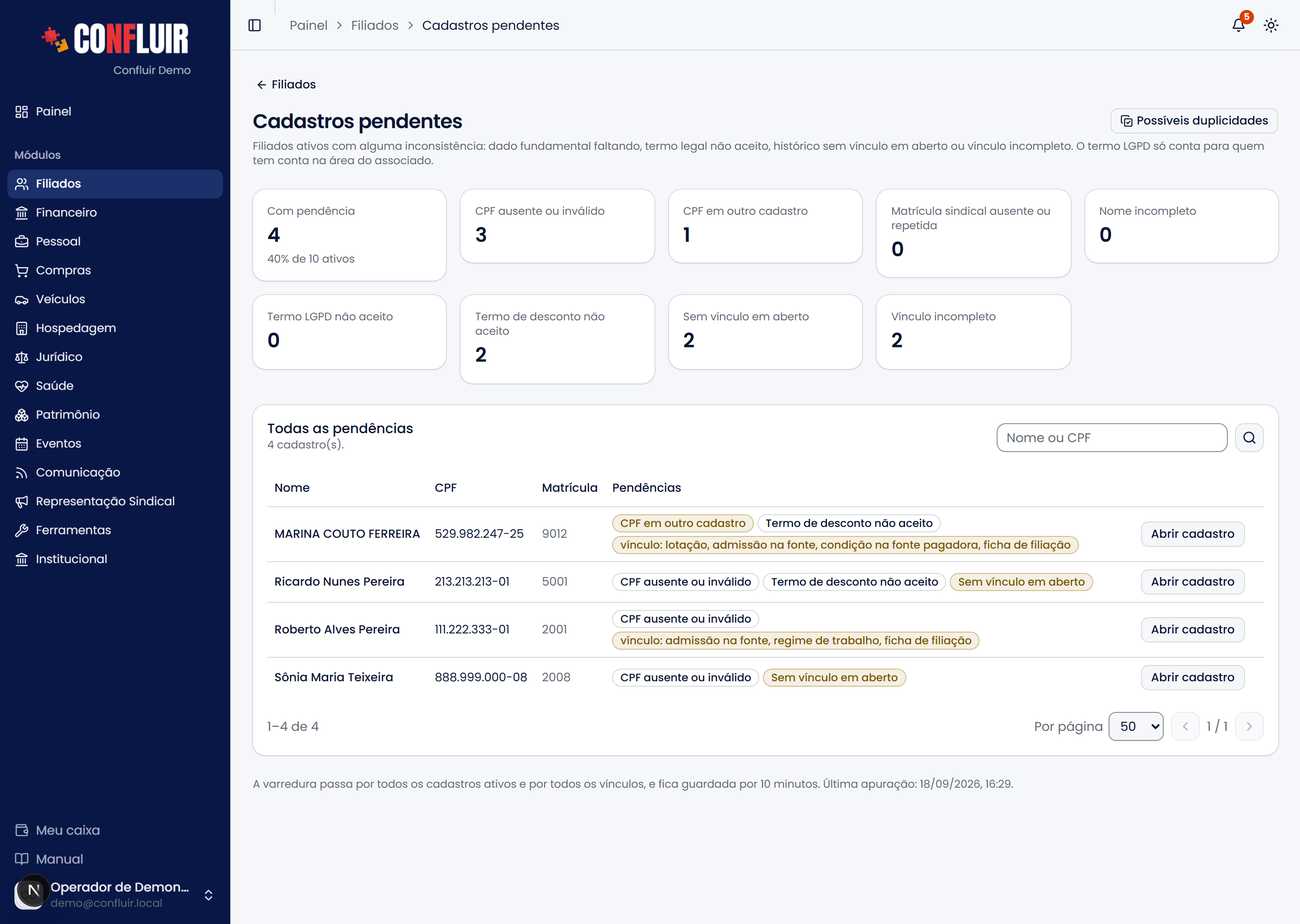
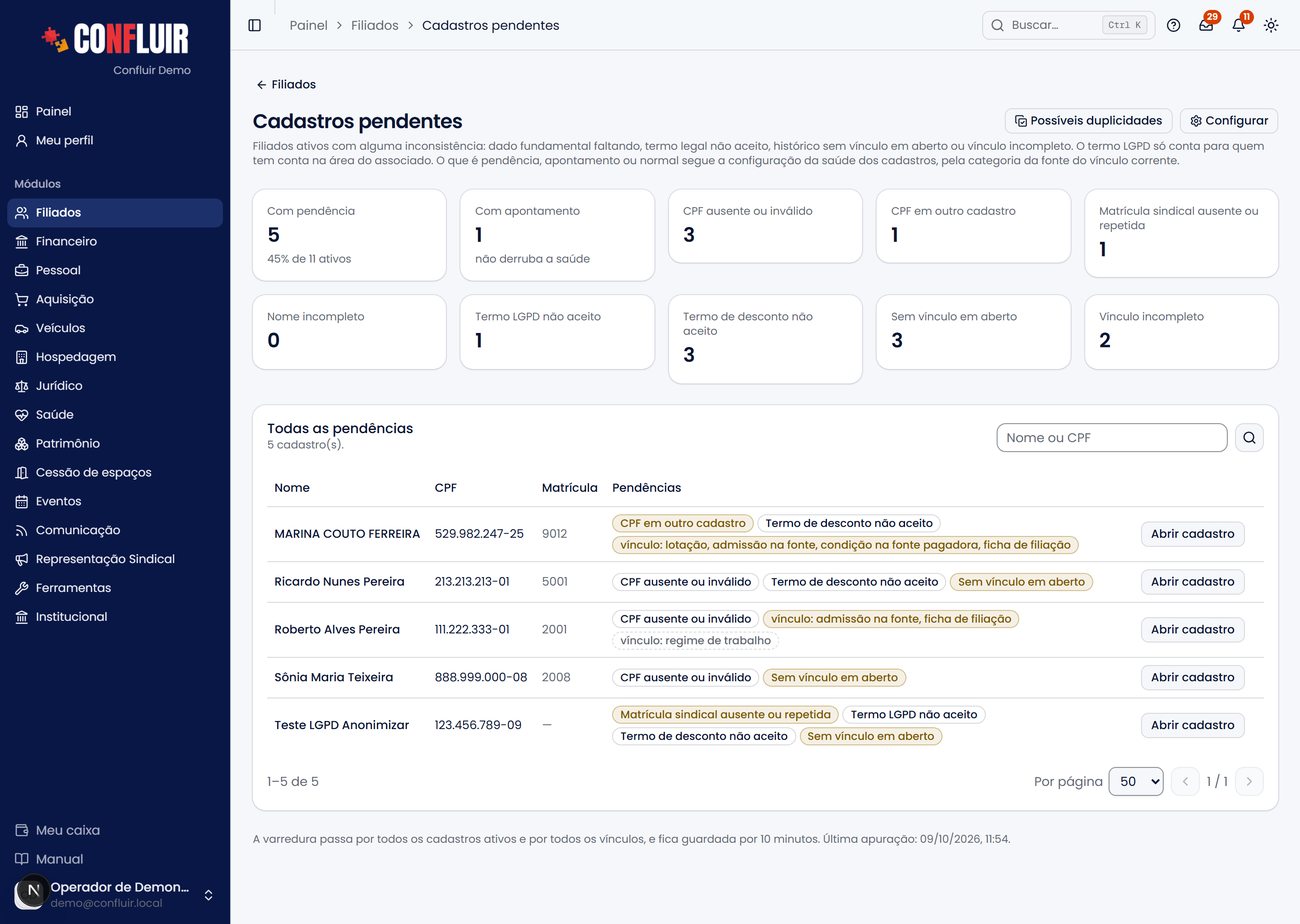
Manual: prints da saúde configurável e das categorias de fonte
- Novos: filiados/saude-config, representacao/categorias e fonte-categoria
- Refeitos: filiados/lista (engrenagem no cartão) e cadastros-pendentes
  (Configurar + Com apontamento)
- manual-prints.mjs: rodada 17; a de 08/10 (que devolve remessa) comentada

diff --git a/src/lib/ajuda/base-conhecimento.ts b/src/lib/ajuda/base-conhecimento.ts
@@ -117,7 +117,7 @@ export const BASE_AJUDA: ArtigoBase[] = [
   {
     "area": "filiados",
     "slug": "cadastros-pendentes",
-    "texto": "Um filiado ativo deve ter o cadastro e o histórico de filiação completos:\nCPF válido, nome completo, os termos legais aceitos, um vínculo em aberto e,\nnesse vínculo, os dados fundamentais e a ficha assinada. Cadastros\npendentes reúne quem falha em qualquer um desses pontos — antes, só a falta\nda ficha era visível.\n\n Filiados \n\n Saúde dos cadastros\n\nNa tela inicial de Filiados, o cartão Saúde dos cadastros mostra, num\nmedidor, quantos por cento dos cadastros ativos estão completos — sem\nnenhuma das pendências abaixo. A cor e a etiqueta dizem a faixa:\n\n| Completos | Faixa | Cor |\n| --- | --- | --- |\n| até 50% | Crítico | vermelho |\n| acima de 50% até 70% | Regular | amarelo |\n| acima de 70% até 85% | Confiável | verde |\n| acima de 85% | Excelente | azul |\n\nO link Cadastros pendentes, no canto do cartão, abre a lista para resolver.\nO cartão é apurado junto com a lista (a mesma varredura), então os números\nbatem.\n\n O que conta como pendência\n\nFiliados → Cadastros pendentes mostra os filiados ativos (condição do\ncadastro) com pelo menos uma destas inconsistências:\n\n- CPF ausente ou inválido — o CPF é a identidade do filiado no sistema.\n- CPF em outro cadastro — o mesmo CPF está em mais de um cadastro. Resolva\n em Possíveis duplicidades.\n- Matrícula sindical ausente ou repetida — a matrícula é da entidade, única\n por pessoa. Corrija em Editar cadastro → CPF e matrícula sindical, ou\n mescle se for a mesma pessoa.\n- Nome incompleto — sem nome, ou só um nome.\n- Termo LGPD não aceito — o cadastro não aponta para a versão em vigor.\n Só conta para quem tem conta na área do associado, que é onde o filiado\n aceita o termo; sem conta, a falta do aceite não é pendência.\n- Termo de desconto não aceito — idem, para a autorização de desconto.\n- Sem vínculo em aberto — não há vínculo de filiação sem data de saída.\n- Vínculo incompleto — no vínculo em aberto falta algo obrigatório: fonte\n pagadora, matrícula, cargo, lotação, admissão na fonte, data de filiação,\n condição na fonte, regime de trabalho (só para trabalhador da ativa) ou a\n ficha de filiação. Saída na fonte, carta de desligamento e desfiliação\n não contam: só existem quando o vínculo termina.\n\nEssa é a regra padrão. Quem tem a permissão de gestão de filiação pode\nmudá-la — veja Configurar a saúde dos cadastros, mais abaixo.\n\nOs cartões do topo dão o total de cada pendência e filtram a lista ao clicar.\nCada linha mostra as etiquetas do que falta; na de vínculo incompleto, o texto\nlista os campos. O cartão Com apontamento filtra quem tem apontamentos,\nque aparecem como etiquetas tracejadas.\n\n Configurar a saúde dos cadastros\n\nNo cartão Saúde dos cadastros (tela de Filiados), o ícone de engrenagem\nabre a configuração — também há o botão Configurar em Cadastros\npendentes. Há uma aba por categoria de fonte pagadora — Empregador, Fundo\nde pensão e as que a entidade criou em Categorias de fonte\n— e, em cada uma, cada informação recebe um de três níveis:\n\n| Nível | O que acontece quando a informação falta |\n| --- | --- |\n| Pendência | Conta contra a saúde e põe o cadastro na lista de pendentes. |\n| Apontamento | Aparece na lista como aviso, sem derrubar a saúde. |\n| Normal | Não é verificada. |\n\nVale a categoria da fonte do vínculo em aberto do filiado; sem vínculo em\naberto (ou com vínculo sem fonte), vale a de Empregador. O padrão é tudo como\npendência, exceto cargo e lotação em fundo de pensão, que ficam como normal;\numa categoria criada parte do padrão da categoria cujas regras ela segue.\nRestaurar padrão volta a aba aberta para esse padrão. Ao salvar, a saúde\ne a lista são recalculadas na hora.\n\n \n\nO que conta como ativo aqui: \n A condição sindical do cadastro — o campo que a secretaria\n mantém quando alguém se filia ou se desfilia. Não é o histórico de vínculos:\n ele diz onde a pessoa trabalha, não se ela é filiada.\n \n\n Como resolver\n\n \n \nAbra o cadastro ou o vínculo: \n Quando a única pendência é o vínculo, o botão abre direto a edição dele;\n nos demais casos abre o cadastro, onde o histórico de filiação marca com\n um triângulo as linhas incompletas e a edição do vínculo lista o que falta.\n \n \nSem vínculo em aberto: \n Registre o vínculo em Histórico de filiação , com fonte\n pagadora, matrícula e data de filiação. Parte desses casos é herança do\n sistema antigo, que trouxe o histórico pela metade.\n \n \nTermos legais: \n O aceite é registrado na ficha pública ou pela secretaria. Em 10/09/2026 o\n termo de desconto em vigor foi registrado como aceito para todos os ativos,\n porque a ficha assinada já o menciona. O de LGPD fica pendente só para\n quem tem conta na área do associado e ainda não o aceitou lá.\n \n \n\nIsto não afeta os direitos da pessoa: \n Pendência de cadastro não tira nada de ninguém. Quando não há vínculo datado,\n a carência conta pelo histórico de contribuição — a\n competência mais antiga em que a pessoa aparece numa remessa.\n \n\nA varredura passa por todos os cadastros ativos e por todos os vínculos e fica\nguardada por 10 minutos; a hora da última apuração aparece no rodapé da tela."
+    "texto": "Um filiado ativo deve ter o cadastro e o histórico de filiação completos:\nCPF válido, nome completo, os termos legais aceitos, um vínculo em aberto e,\nnesse vínculo, os dados fundamentais e a ficha assinada. Cadastros\npendentes reúne quem falha em qualquer um desses pontos — antes, só a falta\nda ficha era visível.\n\n Filiados \n\n Saúde dos cadastros\n\nNa tela inicial de Filiados, o cartão Saúde dos cadastros mostra, num\nmedidor, quantos por cento dos cadastros ativos estão completos — sem\nnenhuma das pendências abaixo. A cor e a etiqueta dizem a faixa:\n\n| Completos | Faixa | Cor |\n| --- | --- | --- |\n| até 50% | Crítico | vermelho |\n| acima de 50% até 70% | Regular | amarelo |\n| acima de 70% até 85% | Confiável | verde |\n| acima de 85% | Excelente | azul |\n\nO link Cadastros pendentes, no canto do cartão, abre a lista para resolver.\nO cartão é apurado junto com a lista (a mesma varredura), então os números\nbatem.\n\n O que conta como pendência\n\nFiliados → Cadastros pendentes mostra os filiados ativos (condição do\ncadastro) com pelo menos uma destas inconsistências:\n\n- CPF ausente ou inválido — o CPF é a identidade do filiado no sistema.\n- CPF em outro cadastro — o mesmo CPF está em mais de um cadastro. Resolva\n em Possíveis duplicidades.\n- Matrícula sindical ausente ou repetida — a matrícula é da entidade, única\n por pessoa. Corrija em Editar cadastro → CPF e matrícula sindical, ou\n mescle se for a mesma pessoa.\n- Nome incompleto — sem nome, ou só um nome.\n- Termo LGPD não aceito — o cadastro não aponta para a versão em vigor.\n Só conta para quem tem conta na área do associado, que é onde o filiado\n aceita o termo; sem conta, a falta do aceite não é pendência.\n- Termo de desconto não aceito — idem, para a autorização de desconto.\n- Sem vínculo em aberto — não há vínculo de filiação sem data de saída.\n- Vínculo incompleto — no vínculo em aberto falta algo obrigatório: fonte\n pagadora, matrícula, cargo, lotação, admissão na fonte, data de filiação,\n condição na fonte, regime de trabalho (só para trabalhador da ativa) ou a\n ficha de filiação. Saída na fonte, carta de desligamento e desfiliação\n não contam: só existem quando o vínculo termina.\n\nEssa é a regra padrão. Quem tem a permissão de gestão de filiação pode\nmudá-la — veja Configurar a saúde dos cadastros, mais abaixo.\n\nOs cartões do topo dão o total de cada pendência e filtram a lista ao clicar.\nCada linha mostra as etiquetas do que falta; na de vínculo incompleto, o texto\nlista os campos. O cartão Com apontamento filtra quem tem apontamentos,\nque aparecem como etiquetas tracejadas.\n\n \n\n Configurar a saúde dos cadastros\n\nNo cartão Saúde dos cadastros (tela de Filiados), o ícone de engrenagem\nabre a configuração — também há o botão Configurar em Cadastros\npendentes. Há uma aba por categoria de fonte pagadora — Empregador, Fundo\nde pensão e as que a entidade criou em Categorias de fonte\n— e, em cada uma, cada informação recebe um de três níveis:\n\n| Nível | O que acontece quando a informação falta |\n| --- | --- |\n| Pendência | Conta contra a saúde e põe o cadastro na lista de pendentes. |\n| Apontamento | Aparece na lista como aviso, sem derrubar a saúde. |\n| Normal | Não é verificada. |\n\nVale a categoria da fonte do vínculo em aberto do filiado; sem vínculo em\naberto (ou com vínculo sem fonte), vale a de Empregador. O padrão é tudo como\npendência, exceto cargo e lotação em fundo de pensão, que ficam como normal;\numa categoria criada parte do padrão da categoria cujas regras ela segue.\nRestaurar padrão volta a aba aberta para esse padrão. Ao salvar, a saúde\ne a lista são recalculadas na hora.\n\n \n\nO que conta como ativo aqui: \n A condição sindical do cadastro — o campo que a secretaria\n mantém quando alguém se filia ou se desfilia. Não é o histórico de vínculos:\n ele diz onde a pessoa trabalha, não se ela é filiada.\n \n\n Como resolver\n\n \n \nAbra o cadastro ou o vínculo: \n Quando a única pendência é o vínculo, o botão abre direto a edição dele;\n nos demais casos abre o cadastro, onde o histórico de filiação marca com\n um triângulo as linhas incompletas e a edição do vínculo lista o que falta.\n \n \nSem vínculo em aberto: \n Registre o vínculo em Histórico de filiação , com fonte\n pagadora, matrícula e data de filiação. Parte desses casos é herança do\n sistema antigo, que trouxe o histórico pela metade.\n \n \nTermos legais: \n O aceite é registrado na ficha pública ou pela secretaria. Em 10/09/2026 o\n termo de desconto em vigor foi registrado como aceito para todos os ativos,\n porque a ficha assinada já o menciona. O de LGPD fica pendente só para\n quem tem conta na área do associado e ainda não o aceitou lá.\n \n \n\nIsto não afeta os direitos da pessoa: \n Pendência de cadastro não tira nada de ninguém. Quando não há vínculo datado,\n a carência conta pelo histórico de contribuição — a\n competência mais antiga em que a pessoa aparece numa remessa.\n \n\nA varredura passa por todos os cadastros ativos e por todos os vínculos e fica\nguardada por 10 minutos; a hora da última apuração aparece no rodapé da tela."
   },
   {
     "area": "filiados",
@@ -147,7 +147,7 @@ export const BASE_AJUDA: ArtigoBase[] = [
   {
     "area": "filiados",
     "slug": "index",
-    "texto": "O módulo Filiados é a base de pessoas do sindicato: o cadastro dos\nassociados, o perfil completo de cada um, o acompanhamento dos processos de\nfiliação e desfiliação, o recebimento das contribuições, o prontuário e os\ntermos legais que o associado aceita.\n\n Filiados \n\n As áreas do módulo\n\n \n \nFiliados (lista): \n A lista de associados, com busca por nome, CPF ou matrícula, filtros por\n situação e exportação em CSV. Cada linha abre o\n perfil completo.\n \n \nNova filiação: \n Cadastro de um filiado pela secretaria, com dois modos no topo da tela:\n Inclusão individual (formulário) e Inclusão em massa (planilha —\n ver Importar). A matrícula sindical é\n a próxima livre, automática; só preencha para manter um número já usado no\n papel. CPF ou matrícula que já estão em outro cadastro são recusados, e\n mesmo nome com a mesma data de nascimento pede confirmação — é assim que se\n evita cadastrar de novo quem volta a se filiar. O formulário pede também\n a forma de recebimento e o primeiro vínculo com a fonte pagadora —\n obrigatório quando a regra da entidade diz que a filiação depende de fonte\n (Institucional → Organização → Regras de filiação).\n Gestão da filiação \n \n \nAcompanhamento: \n Onde cada processo de filiação/desfiliação está parado, com o gráfico de\n etapas e a fila por etapa. Ver\n Acompanhamento.\n Gestão da filiação \n \n \nSolicitações de filiação: \n A fila de fichas recebidas pelo site (fluxo público /filiar) — é a\n aprovação delas que cria a filiação.\n \n \nReceitas: \n As remessas de recebimento das contribuições, por fonte pagadora. Ver\n Receitas.\n \n \nProntuários: \n A linha do tempo de cada associado — atendimentos, homologações, mudanças de\n etapa e apontamentos manuais.\n \n \nConfigurações de filiação: \n Carência por direito, regra de inadimplência e os termos legais (LGPD e\n desconto, versionados). Ver\n Configurações de filiação.\n \n \n\n \n\n A situação (condição) da filiação\n\nA condição é o dado central do módulo: ela controla o acesso do associado ao\nportal e o direito a voto em assembleias, e define em que etapa do processo o\ncadastro está. Aparece como um selo colorido na lista e no topo do perfil. Os\nvalores:\n\n- Ativo / Inativo — filiado em dia / desfiliado (objetivos finais).\n- Aguarda ficha assinada, Filiação não informada à fonte, Filiação\n aguarda fonte — filiação em andamento.\n- Desfiliação não informada à fonte, Desfiliação aguarda fonte —\n desfiliação em andamento.\n- Falecido, Excluído(a) do quadro associativo — situações especiais.\n\nOs cartões do topo são atalhos: \n Os indicadores \"Filiação em andamento\" e \"Desfiliação em andamento\" abrem a\n lista já filtrada por aquelas condições — o mesmo destino da área de\n Acompanhamento.\n \n\n Ver a área do filiado\n\nNo perfil, o botão Visualizar área abre o portal como o associado o vê —\nem somente leitura. É útil para dar suporte (\"veja o que aparece para\nvocê\") sem risco de alterar nada: as ações de escrita usam a sessão real, então\na gestão apenas visualiza.\n\nBusca sem acento: \n A busca por nome ignora acentos e maiúsculas — procurar por \"jose\" encontra\n \"José\". CPF e matrícula podem ser digitados com ou sem pontuação. Na busca\n rápida do painel, quem tem a matrícula sindical ou o CPF exatamente\n igual ao termo vem primeiro — \"850\" traz a matrícula 850 antes de\n 8504, 8505 e dos CPFs que começam com 850.\n \n\n Os gráficos do painel\n\nAbaixo dos cartões e dos indicadores, o painel mostra o quadro de filiados\nativos em gráficos, todos na paleta da entidade:\n\n- Divisão por sexo — duas rosquinhas: preenchimento do campo sexo e, entre\n os que têm sexo informado, a divisão entre masculino, feminino e outro. Cada\n fatia da legenda abre a lista filtrada.\n- Filiados por fonte pagadora — as dez maiores fontes.\n- Regime de trabalho e Condição na fonte pagadora — sobre os vínculos\n em aberto dos filiados ativos.\n- Filiações × desfiliações — quantos vínculos foram filiados e desfiliados\n no período (nesta semana, neste mês ou neste ano), com o saldo. Conta pela\n data de filiação e de desfiliação gravada no vínculo, o que deixa de fora um\n acerto lançado com data antiga.\n- Registros por condição de filiação — todos os cadastros, por condição.\n\nOs aniversariantes de hoje ficam no fim da página, depois dos gráficos.\n\n Erros comuns\n\n- \"O associado não consegue entrar no portal / votar.\" Confira a\n condição — só quem está Ativo tem acesso pleno. Veja em que etapa está pelo\n Acompanhamento.\n- \"Achei a mesma pessoa duas vezes na lista.\" Um mesmo CPF pode ter mais de\n um registro (troca de empregador, por exemplo). O\n perfil agrega e mostra os \"outros registros\n deste CPF\".\n- \"A exportação veio incompleta.\" O CSV respeita os filtros aplicados —\n limpe os filtros para exportar a base inteira.\n\n Carência, inadimplência e documentos\n\nTrês áreas que nasceram do dia a dia da secretaria:\n\n- Configurações de filiação — a carência de cada direito, a regra de\n inadimplência e os termos legais aceitos na ficha. Ver\n Configurações de filiação.\n- Inadimplentes — o relatório de quem está na condição. Ele aponta; quem\n decide é uma pessoa.\n- Cadastros pendentes — filiados ativos com dado fundamental, termo legal\n ou histórico de vínculos incompleto, com o link direto para resolver. Fica no\n cartão Saúde dos cadastros da tela inicial, que mede a porcentagem de\n cadastros completos. Quando há cadastros que parecem da mesma pessoa, o\n cartão avisa quantas possíveis duplicidades há para conferir. Ver\n Cadastros pendentes e\n Possíveis duplicidades.\n- Relatórios — em carência, plenos, inadimplentes e o personalizado, com\n filtros e colunas à escolha, exportação e impressão. Ver\n Relatórios."
+    "texto": "O módulo Filiados é a base de pessoas do sindicato: o cadastro dos\nassociados, o perfil completo de cada um, o acompanhamento dos processos de\nfiliação e desfiliação, o recebimento das contribuições, o prontuário e os\ntermos legais que o associado aceita.\n\n Filiados \n\n As áreas do módulo\n\n \n \nFiliados (lista): \n A lista de associados, com busca por nome, CPF ou matrícula, filtros por\n situação e exportação em CSV. Cada linha abre o\n perfil completo.\n \n \nNova filiação: \n Cadastro de um filiado pela secretaria, com dois modos no topo da tela:\n Inclusão individual (formulário) e Inclusão em massa (planilha —\n ver Importar). A matrícula sindical é\n a próxima livre, automática; só preencha para manter um número já usado no\n papel. CPF ou matrícula que já estão em outro cadastro são recusados, e\n mesmo nome com a mesma data de nascimento pede confirmação — é assim que se\n evita cadastrar de novo quem volta a se filiar. O formulário pede também\n a forma de recebimento e o primeiro vínculo com a fonte pagadora —\n obrigatório quando a regra da entidade diz que a filiação depende de fonte\n (Institucional → Organização → Regras de filiação).\n Gestão da filiação \n \n \nAcompanhamento: \n Onde cada processo de filiação/desfiliação está parado, com o gráfico de\n etapas e a fila por etapa. Ver\n Acompanhamento.\n Gestão da filiação \n \n \nSolicitações de filiação: \n A fila de fichas recebidas pelo site (fluxo público /filiar) — é a\n aprovação delas que cria a filiação.\n \n \nReceitas: \n As remessas de recebimento das contribuições, por fonte pagadora. Ver\n Receitas.\n \n \nProntuários: \n A linha do tempo de cada associado — atendimentos, homologações, mudanças de\n etapa e apontamentos manuais.\n \n \nConfigurações de filiação: \n Carência por direito, regra de inadimplência e os termos legais (LGPD e\n desconto, versionados). Ver\n Configurações de filiação.\n \n \n\n \n\n A situação (condição) da filiação\n\nA condição é o dado central do módulo: ela controla o acesso do associado ao\nportal e o direito a voto em assembleias, e define em que etapa do processo o\ncadastro está. Aparece como um selo colorido na lista e no topo do perfil. Os\nvalores:\n\n- Ativo / Inativo — filiado em dia / desfiliado (objetivos finais).\n- Aguarda ficha assinada, Filiação não informada à fonte, Filiação\n aguarda fonte — filiação em andamento.\n- Desfiliação não informada à fonte, Desfiliação aguarda fonte —\n desfiliação em andamento.\n- Falecido, Excluído(a) do quadro associativo — situações especiais.\n\nOs cartões do topo são atalhos: \n Os indicadores \"Filiação em andamento\" e \"Desfiliação em andamento\" abrem a\n lista já filtrada por aquelas condições — o mesmo destino da área de\n Acompanhamento.\n \n\n Ver a área do filiado\n\nNo perfil, o botão Visualizar área abre o portal como o associado o vê —\nem somente leitura. É útil para dar suporte (\"veja o que aparece para\nvocê\") sem risco de alterar nada: as ações de escrita usam a sessão real, então\na gestão apenas visualiza.\n\nBusca sem acento: \n A busca por nome ignora acentos e maiúsculas — procurar por \"jose\" encontra\n \"José\". CPF e matrícula podem ser digitados com ou sem pontuação. Na busca\n rápida do painel, quem tem a matrícula sindical ou o CPF exatamente\n igual ao termo vem primeiro — \"850\" traz a matrícula 850 antes de\n 8504, 8505 e dos CPFs que começam com 850.\n \n\n Os gráficos do painel\n\nAbaixo dos cartões e dos indicadores, o painel mostra o quadro de filiados\nativos em gráficos, todos na paleta da entidade:\n\n- Divisão por sexo — duas rosquinhas: preenchimento do campo sexo e, entre\n os que têm sexo informado, a divisão entre masculino, feminino e outro. Cada\n fatia da legenda abre a lista filtrada.\n- Filiados por fonte pagadora — as dez maiores fontes.\n- Regime de trabalho e Condição na fonte pagadora — sobre os vínculos\n em aberto dos filiados ativos.\n- Filiações × desfiliações — quantos vínculos foram filiados e desfiliados\n no período (nesta semana, neste mês ou neste ano), com o saldo. Conta pela\n data de filiação e de desfiliação gravada no vínculo, o que deixa de fora um\n acerto lançado com data antiga.\n- Registros por condição de filiação — todos os cadastros, por condição.\n\nOs aniversariantes de hoje ficam no fim da página, depois dos gráficos.\n\n Erros comuns\n\n- \"O associado não consegue entrar no portal / votar.\" Confira a\n condição — só quem está Ativo tem acesso pleno. Veja em que etapa está pelo\n Acompanhamento.\n- \"Achei a mesma pessoa duas vezes na lista.\" Um mesmo CPF pode ter mais de\n um registro (troca de empregador, por exemplo). O\n perfil agrega e mostra os \"outros registros\n deste CPF\".\n- \"A exportação veio incompleta.\" O CSV respeita os filtros aplicados —\n limpe os filtros para exportar a base inteira.\n\n Carência, inadimplência e documentos\n\nTrês áreas que nasceram do dia a dia da secretaria:\n\n- Configurações de filiação — a carência de cada direito, a regra de\n inadimplência e os termos legais aceitos na ficha. Ver\n Configurações de filiação.\n- Inadimplentes — o relatório de quem está na condição. Ele aponta; quem\n decide é uma pessoa.\n- Cadastros pendentes — filiados ativos com dado fundamental, termo legal\n ou histórico de vínculos incompleto, com o link direto para resolver. Fica no\n cartão Saúde dos cadastros da tela inicial, que mede a porcentagem de\n cadastros completos. Quando há cadastros que parecem da mesma pessoa, o\n cartão avisa quantas possíveis duplicidades há para conferir. A\n engrenagem do cartão (só para a gestão de filiação) abre a configuração do\n que conta como pendência, apontamento ou normal em cada categoria de fonte. Ver\n Cadastros pendentes e\n Possíveis duplicidades.\n- Relatórios — em carência, plenos, inadimplentes e o personalizado, com\n filtros e colunas à escolha, exportação e impressão. Ver\n Relatórios."
   },
   {
     "area": "filiados",
@@ -512,7 +512,7 @@ export const BASE_AJUDA: ArtigoBase[] = [
   {
     "area": "representacao",
     "slug": "empregadores",
-    "texto": "Os empregadores (fontes pagadoras) são as empresas onde os filiados\ntrabalham. É desse cadastro que o sistema sabe de onde vem o desconto da\ncontribuição e para quem se enviam ofícios de filiação/desfiliação. A\npágina de cada empregador reúne tudo o que a entidade tem com aquela empresa:\nfiliados, acordos, votações, oposições, reuniões e setoriais.\n\n Empregadores e fontes pagadoras \n\n A página do empregador\n\nNo topo ficam o nome, o CNPJ, a categoria (empregador, fundo de pensão ou uma\ncriada pela entidade — veja abaixo), a\nsituação e os botões Editar e Ver filiados da fonte. Logo abaixo, os\nindicadores:\n\n- Filiados ativos, vínculos em aberto, vínculos no histórico e\n contribuições ligadas à fonte;\n- o acordo vigente, as reuniões com a empresa e as setoriais dos\n últimos 12 meses, e a próxima agenda.\n\n \n\n Categorias de fonte\n\nToda fonte tem uma categoria, escolhida em Editar. Empregador e Fundo\nde pensão vêm do sistema; em Empregadores → Categorias a entidade cria as\nsuas (ex.: Órgão público, Cooperativa), renomeia e exclui.\n\nCada categoria criada segue as regras de vínculo de Empregador ou de Fundo\nde pensão — em fundo de pensão, por exemplo, cargo e lotação não se aplicam e\no vínculo nasce como aposentado. Trocar a regra de uma categoria acerta todas\nas fontes dela. Cada categoria também ganha uma aba própria na\nconfiguração da saúde dos cadastros.\nUma categoria com fontes não pode ser excluída: mude antes a categoria delas.\n\nA lista de empregadores filtra e mostra a categoria de cada fonte.\n\n As abas\n\n- Visão geral — os dados da fonte e a documentação legal: cartas,\n atas, editais e demais documentos da representação.\n- Acordos — os acordos coletivos ligados a este empregador em Acordos\n coletivos, com vigência e quantidade de cláusulas. Por padrão aparecem os\n fechados (vigentes e arquivados); o filtro mostra também os em\n negociação. Acordos coletivos \n- Votações — as campanhas de votação em que a empresa está entre as fontes.\n Votações e assembleias \n- Oposições — as cartas de oposição dos trabalhadores da empresa.\n Oposição à contribuição assistencial \n- Reuniões e Setoriais — o registro dos encontros (abaixo).\n\nCada aba tem os próprios filtros, colunas que ordenam com um clique e\npaginação. Quem não tem a permissão de uma área não vê a aba dela.\n\n Reuniões e setoriais\n\nDois tipos de encontro, registrados do mesmo jeito:\n\n- Reunião com o empregador — sindicato × empresa: negociação, mesa\n permanente, comissão, audiência;\n- Setorial — sindicato × trabalhadores da empresa, numa unidade ou local\n de trabalho (a P-50, turno A; a base de Imbetiba).\n\n \n \nNova reunião ou Nova setorial: \n Na aba correspondente, abra o formulário: título, situação (agendada,\n realizada, cancelada), data, início e término, modalidade (presencial,\n on-line ou híbrida) com o local ou o link, e — na setorial — a unidade e\n quantos trabalhadores estavam presentes.\n \n \nAnexar a ata em PDF (opcional): \n Ao escolher o arquivo, a IA lê a ata — digital ou escaneada — e\n preenche data, horário, local, pauta, resumo, encaminhamentos e\n participantes. Numa reunião já registrada, ela só preenche os campos que\n estiverem vazios. Confira antes de salvar.\n \n \nPauta, resumo e encaminhamentos: \n A pauta, um assunto por linha; o resumo do que se discutiu; os\n encaminhamentos — decisões, compromissos e prazos, um por linha.\n \n \nParticipantes: \n Pelo sindicato, marque diretores e funcionários (a busca filtra pelo\n nome) e, em Outros pelo sindicato, quem não tem conta no sistema. Pela\n empresa, um por linha no formato Nome — cargo; na setorial, os\n trabalhadores também podem ser listados (Nome — função).\n \n \n\nA ata fica guardada: \n A ata anexada abre pela página da reunião (Abrir a ata). Para trocar,\n edite a reunião e anexe outra — ou use remover ata. O PDF pode ter até\n 25 MB.\n \n\n \n\nVínculo com o filiado: \n No perfil do filiado, os vínculos apontam para essas fontes pagadoras.\n Manter o cadastro em dia mantém a base de descontos e a comunicação com as\n empresas corretas.\n \n\n Erros comuns\n\n- \"O desconto de um filiado saiu na empresa errada.\" Corrija o vínculo do\n filiado (a fonte pagadora) no perfil dele — é o vínculo que direciona o\n desconto e os ofícios.\n- \"O ofício foi para o endereço/empresa errado.\" Confira os dados do\n empregador aqui; os ofícios usam esse cadastro.\n- \"Não vejo a aba Acordos (ou Votações, ou Oposições).\" Cada uma depende da\n permissão da área correspondente.\n- \"A aba Acordos está vazia.\" O acordo precisa ter este empregador entre as\n fontes pagadoras, em Acordos coletivos — e, por padrão, a aba mostra só os\n vigentes e arquivados.\n- \"A IA não leu a ata.\" O PDF pode estar ilegível ou não ser uma ata. Preencha\n os campos à mão — a ata continua anexada."
+    "texto": "Os empregadores (fontes pagadoras) são as empresas onde os filiados\ntrabalham. É desse cadastro que o sistema sabe de onde vem o desconto da\ncontribuição e para quem se enviam ofícios de filiação/desfiliação. A\npágina de cada empregador reúne tudo o que a entidade tem com aquela empresa:\nfiliados, acordos, votações, oposições, reuniões e setoriais.\n\n Empregadores e fontes pagadoras \n\n A página do empregador\n\nNo topo ficam o nome, o CNPJ, a categoria (empregador, fundo de pensão ou uma\ncriada pela entidade — veja abaixo), a\nsituação e os botões Editar e Ver filiados da fonte. Logo abaixo, os\nindicadores:\n\n- Filiados ativos, vínculos em aberto, vínculos no histórico e\n contribuições ligadas à fonte;\n- o acordo vigente, as reuniões com a empresa e as setoriais dos\n últimos 12 meses, e a próxima agenda.\n\n \n\n Categorias de fonte\n\nToda fonte tem uma categoria, escolhida em Editar. Empregador e Fundo\nde pensão vêm do sistema; em Empregadores → Categorias a entidade cria as\nsuas (ex.: Órgão público, Cooperativa), renomeia e exclui.\n\nCada categoria criada segue as regras de vínculo de Empregador ou de Fundo\nde pensão — em fundo de pensão, por exemplo, cargo e lotação não se aplicam e\no vínculo nasce como aposentado. Trocar a regra de uma categoria acerta todas\nas fontes dela. Cada categoria também ganha uma aba própria na\nconfiguração da saúde dos cadastros.\nUma categoria com fontes não pode ser excluída: mude antes a categoria delas.\n\n \n\nNa edição da fonte, o campo Categoria lista todas elas — as criadas\naparecem com a regra que seguem — e tem o atalho Gerenciar categorias.\n\n \n\nA lista de empregadores filtra e mostra a categoria de cada fonte.\n\n As abas\n\n- Visão geral — os dados da fonte e a documentação legal: cartas,\n atas, editais e demais documentos da representação.\n- Acordos — os acordos coletivos ligados a este empregador em Acordos\n coletivos, com vigência e quantidade de cláusulas. Por padrão aparecem os\n fechados (vigentes e arquivados); o filtro mostra também os em\n negociação. Acordos coletivos \n- Votações — as campanhas de votação em que a empresa está entre as fontes.\n Votações e assembleias \n- Oposições — as cartas de oposição dos trabalhadores da empresa.\n Oposição à contribuição assistencial \n- Reuniões e Setoriais — o registro dos encontros (abaixo).\n\nCada aba tem os próprios filtros, colunas que ordenam com um clique e\npaginação. Quem não tem a permissão de uma área não vê a aba dela.\n\n Reuniões e setoriais\n\nDois tipos de encontro, registrados do mesmo jeito:\n\n- Reunião com o empregador — sindicato × empresa: negociação, mesa\n permanente, comissão, audiência;\n- Setorial — sindicato × trabalhadores da empresa, numa unidade ou local\n de trabalho (a P-50, turno A; a base de Imbetiba).\n\n \n \nNova reunião ou Nova setorial: \n Na aba correspondente, abra o formulário: título, situação (agendada,\n realizada, cancelada), data, início e término, modalidade (presencial,\n on-line ou híbrida) com o local ou o link, e — na setorial — a unidade e\n quantos trabalhadores estavam presentes.\n \n \nAnexar a ata em PDF (opcional): \n Ao escolher o arquivo, a IA lê a ata — digital ou escaneada — e\n preenche data, horário, local, pauta, resumo, encaminhamentos e\n participantes. Numa reunião já registrada, ela só preenche os campos que\n estiverem vazios. Confira antes de salvar.\n \n \nPauta, resumo e encaminhamentos: \n A pauta, um assunto por linha; o resumo do que se discutiu; os\n encaminhamentos — decisões, compromissos e prazos, um por linha.\n \n \nParticipantes: \n Pelo sindicato, marque diretores e funcionários (a busca filtra pelo\n nome) e, em Outros pelo sindicato, quem não tem conta no sistema. Pela\n empresa, um por linha no formato Nome — cargo; na setorial, os\n trabalhadores também podem ser listados (Nome — função).\n \n \n\nA ata fica guardada: \n A ata anexada abre pela página da reunião (Abrir a ata). Para trocar,\n edite a reunião e anexe outra — ou use remover ata. O PDF pode ter até\n 25 MB.\n \n\n \n\nVínculo com o filiado: \n No perfil do filiado, os vínculos apontam para essas fontes pagadoras.\n Manter o cadastro em dia mantém a base de descontos e a comunicação com as\n empresas corretas.\n \n\n Erros comuns\n\n- \"O desconto de um filiado saiu na empresa errada.\" Corrija o vínculo do\n filiado (a fonte pagadora) no perfil dele — é o vínculo que direciona o\n desconto e os ofícios.\n- \"O ofício foi para o endereço/empresa errado.\" Confira os dados do\n empregador aqui; os ofícios usam esse cadastro.\n- \"Não vejo a aba Acordos (ou Votações, ou Oposições).\" Cada uma depende da\n permissão da área correspondente.\n- \"A aba Acordos está vazia.\" O acordo precisa ter este empregador entre as\n fontes pagadoras, em Acordos coletivos — e, por padrão, a aba mostra só os\n vigentes e arquivados.\n- \"A IA não leu a ata.\" O PDF pode estar ilegível ou não ser uma ata. Preencha\n os campos à mão — a ata continua anexada."
   },
   {
     "area": "representacao",
